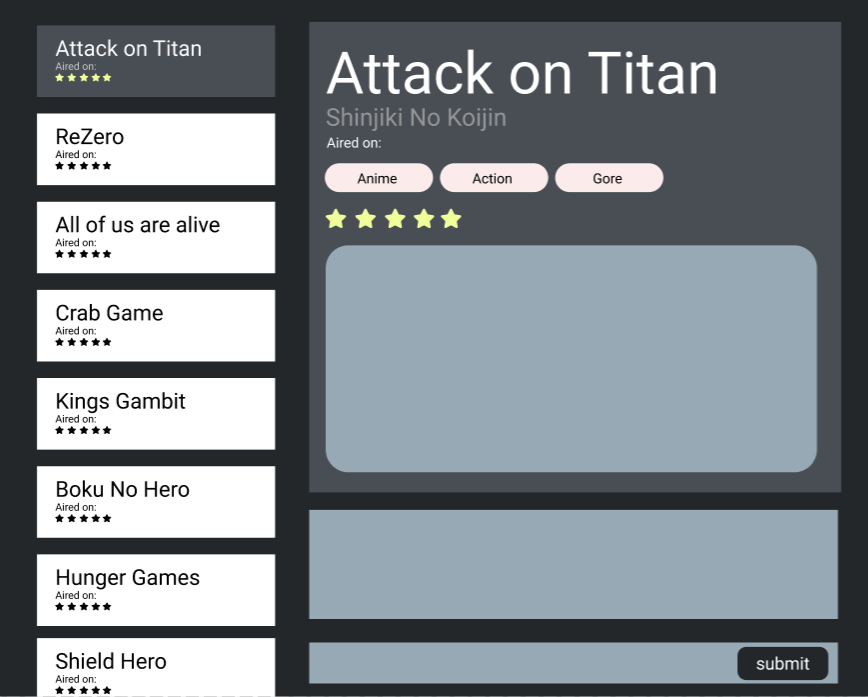
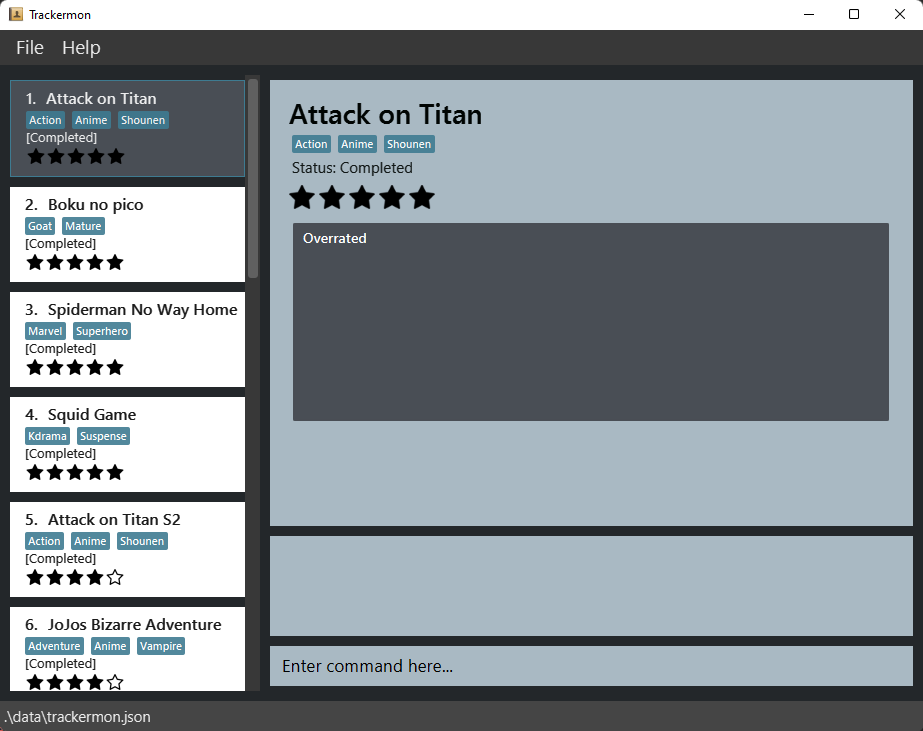
Update userguide for comment, tag, rating and Change index screenshot
Other info:
- Change version number to 1.3.1

diff --git a/src/main/java/seedu/trackermon/MainApp.java b/src/main/java/seedu/trackermon/MainApp.java
@@ -37,7 +37,7 @@ import seedu.trackermon.ui.UiManager;
  */
 public class MainApp extends Application {
 
-    public static final Version VERSION = new Version(0, 2, 0, true);
+    public static final Version VERSION = new Version(1, 3, 1, false);
 
     private static final Logger logger = LogsCenter.getLogger(MainApp.class);
 

diff --git a/docs/UserGuide.md b/docs/UserGuide.md
@@ -233,6 +233,14 @@ Multiple show [parameters](#command-structure) can be edited at the same time
 
 [INSERT IMAGE AFTER UI IS DONE COMPLETELY]
 
+<div markdown="block" class="alert alert-info">
+
+**:information_source: Provided below are information to take note regarding the Rating and Comment feature. 
+* Reset the rating of a show: `edit INDEX r/0`
+* Removing a comment: `edit INDEX c/`
+
+</div>
+
 <div markdown="block" class="alert alert-danger">
 
 **:exclamation: Caution:**<br>
@@ -243,6 +251,14 @@ Multiple show [parameters](#command-structure) can be edited at the same time
 * Editing a `TAG` parameter will cause all the **previous tags of the show to be deleted**.
 * The **index** parameter you provide should be a positive whole-number. On top of that, it should be within the bounds of the show list.<br>
   e.g. If there are 5 shows saved in the show list, then the valid index ranges from 1 to 5.
+
+:exclamation:**Adding, Editing and Deleting a Tag:** Doing any of these can result in your tags being deleted if you do not specify existing tags you want to keep. <br>
+* Adding a Tag:
+  * `edit INDEX <Specify all tags in show> t/NEW_TAG`
+* Deleting a Tag:
+  * `edit INDEX <Specify all tags in show except the show you want to delete>`
+* Editing a Tag:
+  * `edit INDEX <Specify all other tags in show> t/EDITED_TAG`
 
 </div>
 
